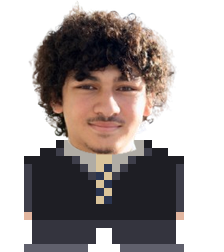
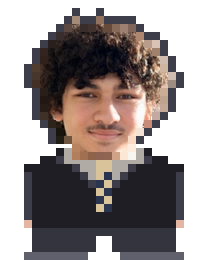
Hero figure: pixelated edge and outline around the face
Claude-Session: https://claude.ai/code/session_01RwvLiQ8LX6sibicQ7REw61

diff --git a/index.html b/index.html
@@ -423,7 +423,7 @@ footer{padding:130px 0 140px;color:var(--muted)}
     <div class="status px"><span class="dot"></span><span>open to summer 2027</span></div>
     <div class="hero-row">
       <h1 id="name" title="click me"><span class="w">Ahmed</span> <span class="w">Elbanna</span></h1>
-      <div class="me-wrap" data-say="hey, i’m ahmed!"><img class="photo-me" src="img/me-wave0.png" alt="Ahmed" width="112" height="126"></div>
+      <div class="me-wrap" data-say="hey, i’m ahmed!"><img class="photo-me" src="img/me-wave0.png" alt="Ahmed" width="112" height="130"></div>
     </div>
     <div class="typed" aria-label="Engineer, founder, creator"><span id="typed"></span><span class="caret"></span></div>
     <div class="hero-cta">
